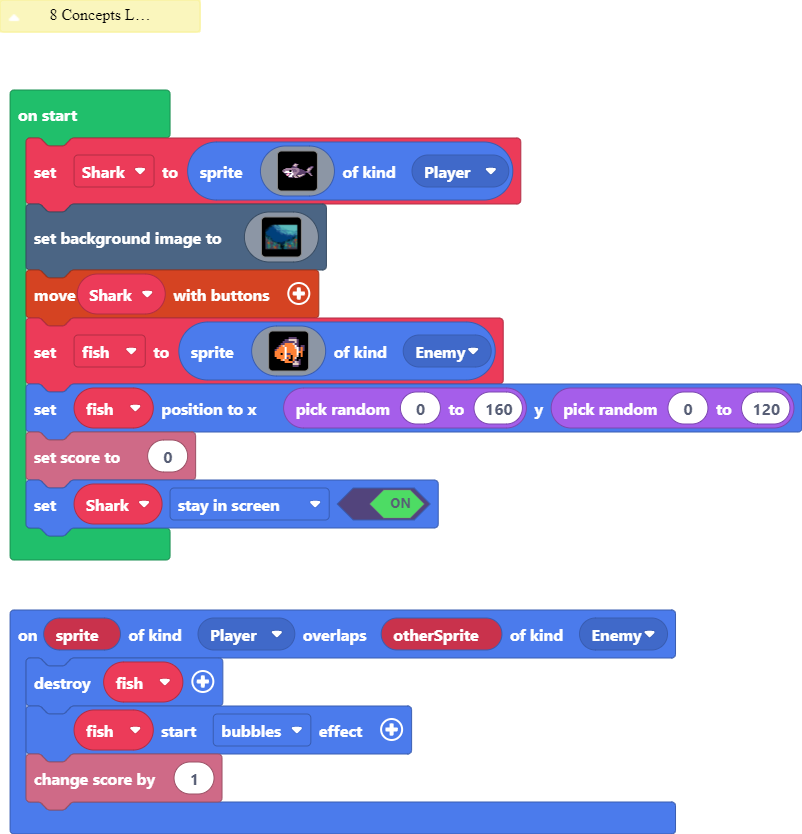
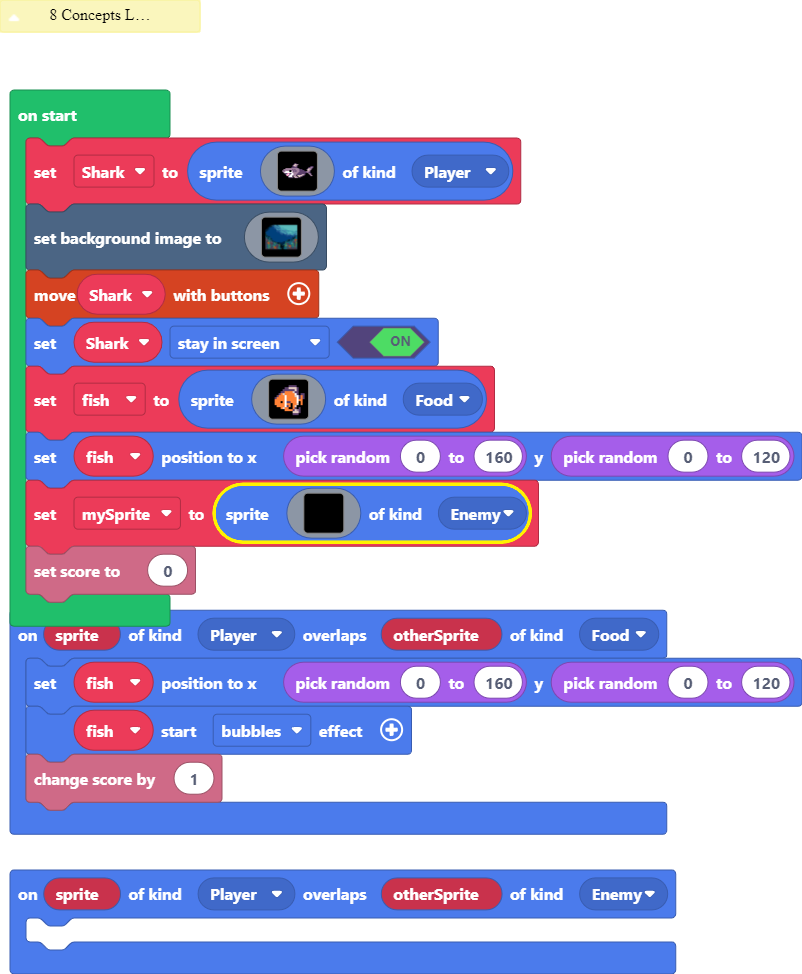
Update main.blocks, main.ts

diff --git a/main.ts b/main.ts
@@ -1,7 +1,10 @@
-sprites.onOverlap(SpriteKind.Player, SpriteKind.Enemy, function (sprite, otherSprite) {
-    fish.destroy()
+sprites.onOverlap(SpriteKind.Player, SpriteKind.Food, function (sprite, otherSprite) {
+    fish.setPosition(randint(0, 160), randint(0, 120))
     fish.startEffect(effects.bubbles)
     info.changeScoreBy(1)
+})
+sprites.onOverlap(SpriteKind.Player, SpriteKind.Enemy, function (sprite, otherSprite) {
+	
 })
 /**
  * 8 Concepts Learned (Pick the 8 you used, delete the others):
@@ -184,6 +187,7 @@ scene.setBackgroundImage(img`
[1 lines of base64/hex data omitted]
     `)
 controller.moveSprite(Shark)
+Shark.setFlag(SpriteFlag.StayInScreen, true)
 fish = sprites.create(img`
     . . . . . . . . . . . . . . . . 
     . . . . . . . . c c c c . . . . 
@@ -201,7 +205,24 @@ fish = sprites.create(img`
     . . . . f f 4 4 4 4 c d b c . . 
     . . . . . . f f f f d d d c . . 
     . . . . . . . . . . c c c . . . 
-    `, SpriteKind.Enemy)
+    `, SpriteKind.Food)
 fish.setPosition(randint(0, 160), randint(0, 120))
+let mySprite = sprites.create(img`
+    . . . . . . . . . . . . . . . . 
+    . . . . . . . . . . . . . . . . 
+    . . . . . . . . . . . . . . . . 
+    . . . . . . . . . . . . . . . . 
+    . . . . . . . . . . . . . . . . 
+    . . . . . . . . . . . . . . . . 
+    . . . . . . . . . . . . . . . . 
+    . . . . . . . . . . . . . . . . 
+    . . . . . . . . . . . . . . . . 
+    . . . . . . . . . . . . . . . . 
+    . . . . . . . . . . . . . . . . 
+    . . . . . . . . . . . . . . . . 
+    . . . . . . . . . . . . . . . . 
+    . . . . . . . . . . . . . . . . 
+    . . . . . . . . . . . . . . . . 
+    . . . . . . . . . . . . . . . . 
+    `, SpriteKind.Enemy)
 info.setScore(0)
-Shark.setFlag(SpriteFlag.StayInScreen, true)
